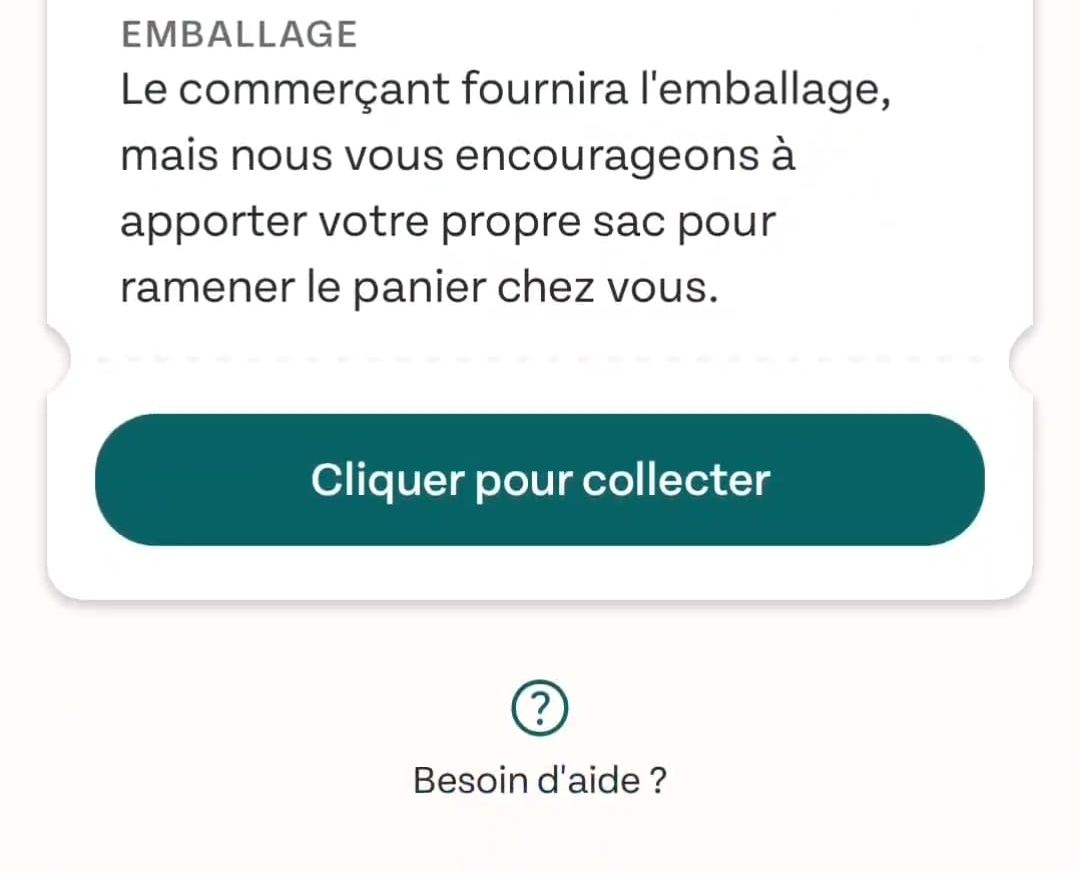
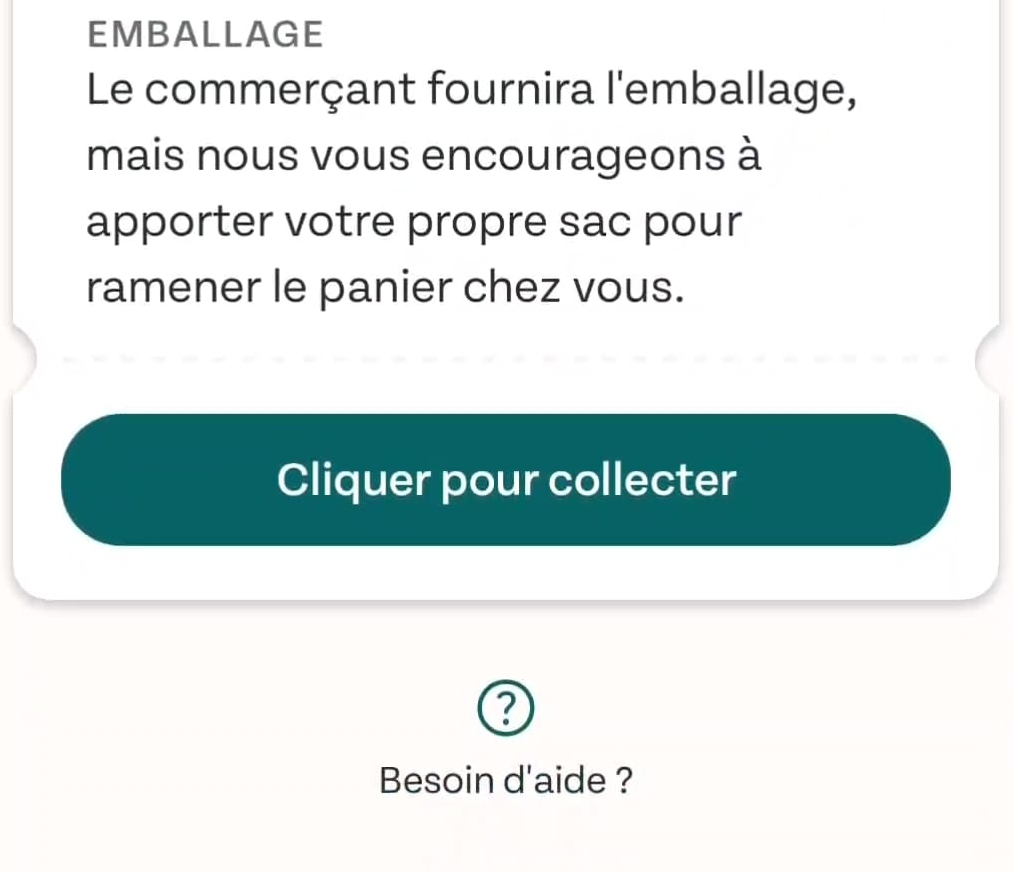
Add files via upload

diff --git a/index.html b/index.html
@@ -13,6 +13,8 @@
             justify-content: center;
             align-items: center;
             height: 100vh;
+            overflow-x: hidden;
+
         }
 
         /* Conteneur principal */
@@ -177,7 +179,7 @@
             </div>
             
         </div>
-        <img style="max-width: 110%; height: auto; position:relative; right: 16px; bottom:-3px;" src="3f.png" alt="">
+        <img style="width: 334px; height: auto; position:relative; right: 5px; bottom:-3px;" src="3f.png" alt="">
 
         <!-- Bouton de collecte -->
         <a href=""> <!-- Remplacez l'URL par celle de votre choix -->
